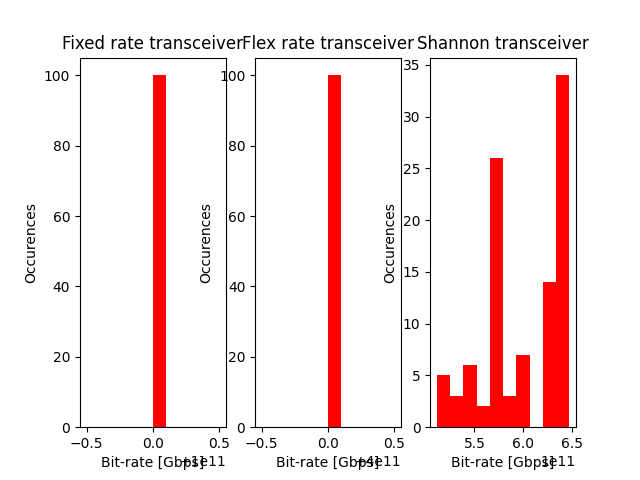
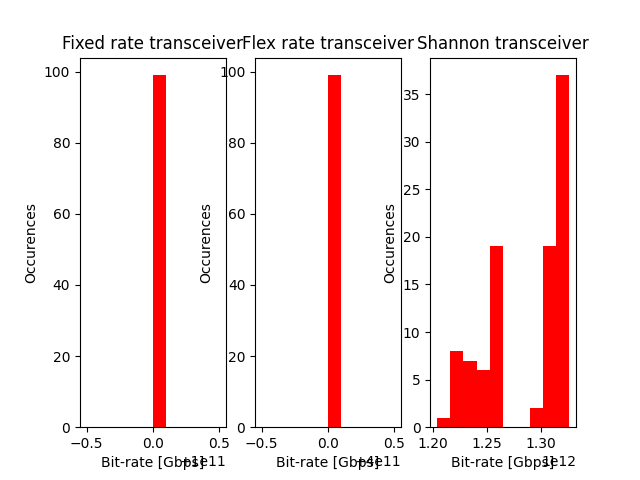
run 100 connections- completed

diff --git a/core/Line.py b/core/Line.py
@@ -103,10 +103,7 @@ class Line:
         ase_noise = self.ase_generation()
         nli_noise = self.nli_generation(signal)
 
-        print(ase_noise)
-        print(nli_noise)
-
-        return ase_noise + nli_noise
+        return ase_noise + nli_noise*1e-12  # CORRECTIVE FACTOR
 
     def propagate(self, propagated_object):
         propagated_object.update_latency(self.latency_generation())

diff --git a/core/constants.py b/core/constants.py
@@ -19,4 +19,4 @@ ALPHA = 0.2         # [dB/km]
 BETA_2 = 2.13e-26   # [(m*Hz^2)^-1]
 GAMMA = 1.27e-3     # [(W*m)^-1]
 
-N_CONNECTIONS = 2
+N_CONNECTIONS = 100
